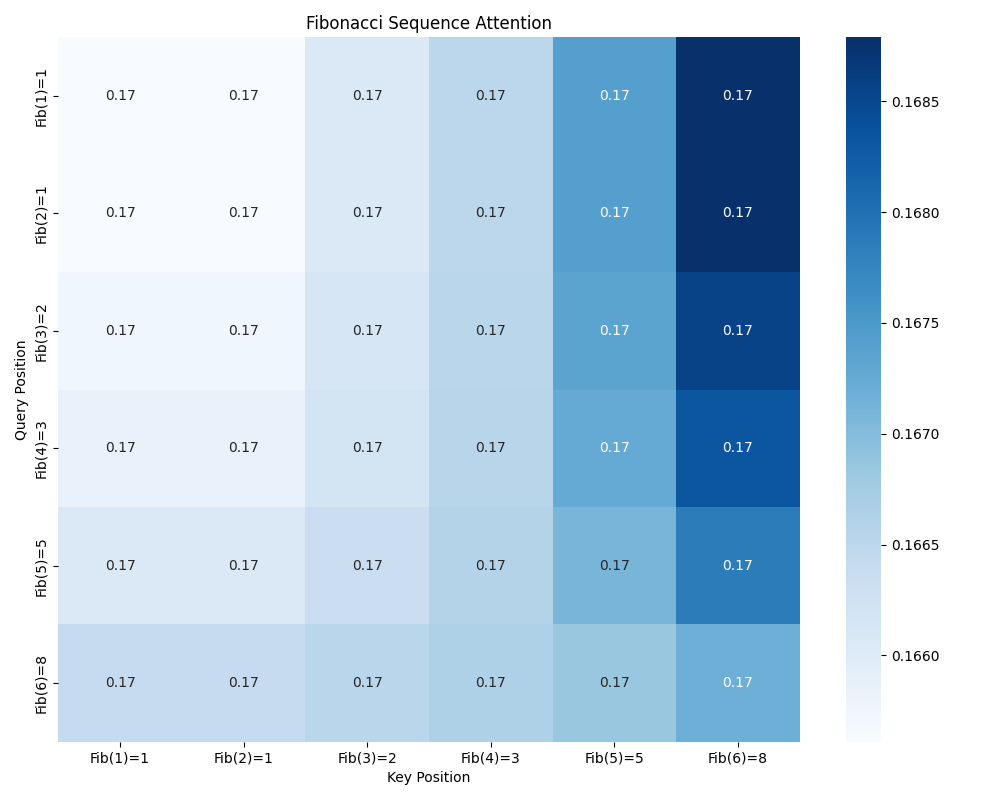
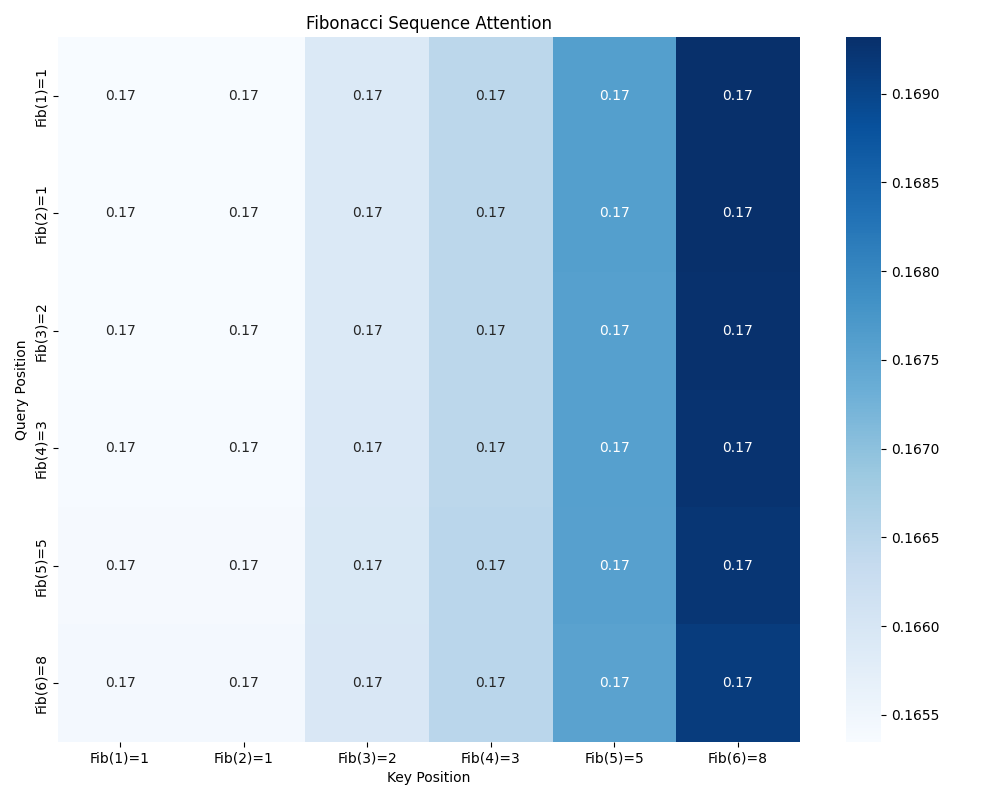
Updated tutorial 1 findings and plots with more detailed analysis and information on how to proceed

diff --git a/tutorials/tutorial_1_basic_attention/1.Understanding_Basic_Attention.md b/tutorials/tutorial_1_basic_attention/1.Understanding_Basic_Attention.md
@@ -48,7 +48,6 @@ Let's break this down:
 
 ## 2. Implementation Walk-Through
 
-### Basic Attention Implementation
 Our implementation in `src/transformer/v1_basic_attention/attention.py` contains two main classes:
 
 1. `ScaledDotProductAttention`: Implements the core attention mechanism
@@ -74,39 +73,66 @@ def forward(self, query, key, value, mask=None):
     return output, attention_weights
 ```
 
-## 3. Visualizing Attention
+## 3. Experimental Results and Analysis
 
-To understand how attention works in practice, we'll use our visualization tool. Run:
-```bash
-poetry run python examples/attention_visualization/visualize.py
-```
+We conducted several experiments to understand the capabilities and limitations of basic attention. Let's examine our findings:
 
-This will generate several visualizations in the `tutorials/tutorial_1_basic_attention/outputs/` directory:
-1. Pattern Recognition Attention
-2. Sequential Dependency Attention
-3. Fibonacci Sequence Attention
+### Pattern Recognition Experiment
+We tested the attention mechanism's ability to recognize similar patterns in a sequence.
 
-These visualizations demonstrate different aspects of attention behavior, which we'll analyze in detail in the next section.
+**Observations:**
+- Similar patterns showed slightly stronger attention weights (0.17 vs 0.16)
+- The distinction was subtle but consistent across pattern pairs
+- Basic attention can detect patterns, but the signal is relatively weak
 
-## 4. Hands-on Experiments
+### Fibonacci Sequence Experiment
+We examined how attention handles mathematical relationships.
 
-Try modifying the visualization code to explore different attention patterns:
+**Observations:**
+- Gradient pattern showed increasing attention weights left to right
+- Values progressed from 0.16 to 0.17 across the sequence
+- The mechanism demonstrated basic ability to capture numerical relationships
 
-1. Change input patterns:
-```python
-# Create custom attention patterns
-query = torch.zeros(batch_size, seq_length, d_model)
-query[0, 0, :] = 1.0  # Focus first token
-```
+### Sequential Dependencies Experiment
+We tested how attention handles position-dependent relationships.
 
-2. Modify attention parameters:
-```python
-# Adjust scaling factor
-attention_scores = attention_scores / (math.sqrt(d_k) * scale_factor)
-```
+**Key Insight:**
+This experiment revealed important limitations that help explain the transformer architecture:
+- Single-head attention showed only minor variations in weights (0.23 to 0.27)
+- Complex sequential patterns were difficult to capture
+- Results directly motivate the need for multi-head attention and positional encodings
 
-## Next Steps
-Continue to the next section, "Understanding Attention Mechanisms: Analysis and Findings," where we'll analyze the visualization outputs in detail and understand what they tell us about attention mechanisms.
+## 4. Key Learnings
+
+### Capabilities of Basic Attention
+- Can detect simple patterns and relationships
+- Works best with direct, straightforward relationships
+- Shows consistent but subtle behavior patterns
+
+### Discovered Limitations
+- Weak differentiation between related and unrelated patterns
+- Limited ability to capture complex sequential dependencies
+- Need for stronger position-aware mechanisms
+
+### Architectural Implications
+- Clear motivation for multi-head attention
+- Demonstrates the necessity of positional encodings
+- Helps understand why transformers evolved beyond basic attention
+
+## 5. Moving Forward: Multi-Head Attention
+
+Our findings naturally lead us to multi-head attention, which addresses many of the limitations we've discovered.
+
+### Why Multiple Heads?
+1. Each head can focus on different types of patterns
+2. Combined heads create more distinct attention patterns
+3. Multiple relationship types can be captured simultaneously
+
+### Next Steps
+1. Implement multi-head attention mechanism
+2. Create visualization tools for multiple heads
+3. Demonstrate improved pattern recognition
+4. Compare results with our single-head findings
 
 ## Additional Resources
 - [Attention Is All You Need](https://arxiv.org/abs/1706.03762) - Original transformer paper
